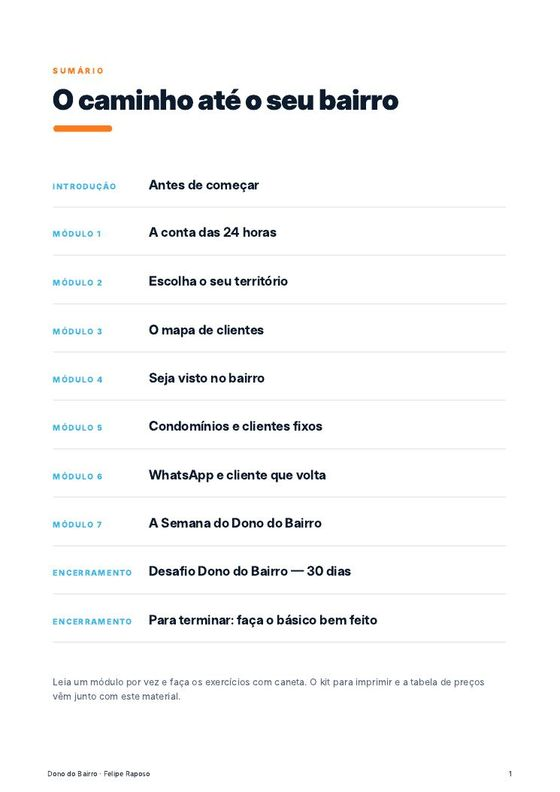
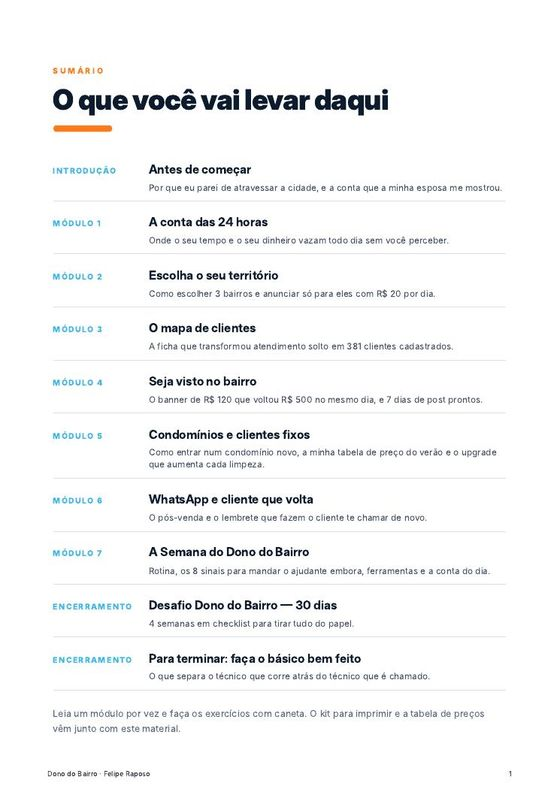
Página: sumário que vende e tabela de preço borrada
Claude-Session: https://claude.ai/code/session_01PUvGjWGqd3sYKr7P7Kcqs2

diff --git a/index.html b/index.html
@@ -264,17 +264,17 @@ document.addEventListener('click',function(e){var a=e.target.closest&&e.target.c
 
 <section id="conteudo">
   <div class="wrap stack">
-    <h2>7 módulos + Desafio de 30 dias. Do jeito que você usa na prática</h2>
-    <p class="muted">Cada módulo resolve um problema que você já viu na rua, com exercício para fazer na mesma semana.</p>
+    <h2>O que você vai levar daqui</h2>
+    <p class="muted">7 módulos + desafio de 30 dias. Cada um resolve um problema que você já viu na rua, com exercício para fazer na mesma semana.</p>
     <ol class="chs">
-      <li class="ch"><span class="n">01</span><div><b>A conta das 24 horas</b><span>Onde o seu tempo vaza e por que organização vira lucro.</span></div></li>
-      <li class="ch"><span class="n">02</span><div><b>Escolha o seu território</b><span>Como escolher 3 bairros e anunciar só para eles, com exemplo de R$ 20 por dia.</span></div></li>
-      <li class="ch"><span class="n">03</span><div><b>O mapa de clientes</b><span>A ficha de atendimento e o mapa de graça no celular.</span></div></li>
-      <li class="ch"><span class="n">04</span><div><b>Seja visto no bairro</b><span>Banner, uniforme, toalha preta e o calendário de 7 dias de postagem.</span></div></li>
-      <li class="ch"><span class="n">05</span><div><b>Condomínios e clientes fixos</b><span>Como entrar num condomínio novo, a minha tabela de preços de referência e o upgrade que aumenta o valor de cada limpeza.</span></div></li>
-      <li class="ch"><span class="n">06</span><div><b>WhatsApp e cliente que volta</b><span>Pós-venda de 1 mês, lembrete de 6 meses e mensagens prontas.</span></div></li>
-      <li class="ch"><span class="n">07</span><div><b>A semana do Dono do Bairro</b><span>Rotina, ferramentas, o que aprendi com 16 ajudantes, quando e como mandar embora, e quanto custa abrir a empresa todo dia.</span></div></li>
-      <li class="ch"><span class="n">30</span><div><b>Desafio Dono do Bairro em 30 dias</b><span>Quatro semanas em checklist para sair da leitura e colocar em prática.</span></div></li>
+      <li class="ch"><span class="n">01</span><div><b>A conta das 24 horas</b><span>Onde o seu tempo e o seu dinheiro vazam todo dia sem você perceber.</span></div></li>
+      <li class="ch"><span class="n">02</span><div><b>Escolha o seu território</b><span>Como escolher 3 bairros e anunciar só para eles com R$ 20 por dia.</span></div></li>
+      <li class="ch"><span class="n">03</span><div><b>O mapa de clientes</b><span>A ficha que transformou atendimento solto em 381 clientes cadastrados.</span></div></li>
+      <li class="ch"><span class="n">04</span><div><b>Seja visto no bairro</b><span>O banner de R$ 120 que voltou R$ 500 no mesmo dia, e 7 dias de post prontos.</span></div></li>
+      <li class="ch"><span class="n">05</span><div><b>Condomínios e clientes fixos</b><span>Como entrar num condomínio novo, a minha tabela de preço do verão e o upgrade que aumenta cada limpeza.</span></div></li>
+      <li class="ch"><span class="n">06</span><div><b>WhatsApp e cliente que volta</b><span>O pós-venda e o lembrete que fazem o cliente te chamar de novo.</span></div></li>
+      <li class="ch"><span class="n">07</span><div><b>A semana do Dono do Bairro</b><span>Rotina, os 8 sinais para mandar o ajudante embora, ferramentas e a conta do dia.</span></div></li>
+      <li class="ch"><span class="n">30</span><div><b>Desafio Dono do Bairro em 30 dias</b><span>4 semanas em checklist para tirar tudo do papel.</span></div></li>
     </ol>
     <div class="bonus">
       <div class="ic"><svg width="28" height="28" viewBox="0 0 24 24" fill="none" stroke="#ee6a33" stroke-width="2" stroke-linecap="round" stroke-linejoin="round" aria-hidden="true"><path d="M20 12v10H4V12"/><path d="M2 7h20v5H2z"/><path d="M12 22V7"/><path d="M12 7H7.5a2.5 2.5 0 0 1 0-5C11 2 12 7 12 7z"/><path d="M12 7h4.5a2.5 2.5 0 0 0 0-5C13 2 12 7 12 7z"/></svg></div>
@@ -288,7 +288,7 @@ document.addEventListener('click',function(e){var a=e.target.closest&&e.target.c
   <div class="wrap stack">
     <h2>Veja <span class="o">por dentro</span></h2>
     <p class="muted">Páginas reais do e-book e do kit para imprimir. Arraste para o lado.</p>
-    <div class="pvs"><figure class="pv"><img src="p-sumario.jpg" alt="Sumário: 7 módulos + desafio" width="560" height="792" loading="lazy"><figcaption>Sumário: 7 módulos + desafio</figcaption></figure><figure class="pv"><img src="p-exercicio.jpg" alt="Exercício prático de cada módulo" width="560" height="792" loading="lazy"><figcaption>Exercício prático de cada módulo</figcaption></figure><figure class="pv"><img src="p-tabela.jpg" alt="A minha tabela de preços real" width="560" height="792" loading="lazy"><figcaption>A minha tabela de preços real</figcaption></figure><figure class="pv"><img src="p-ficha.jpg" alt="Kit: ficha de atendimento" width="560" height="792" loading="lazy"><figcaption>Kit: ficha de atendimento</figcaption></figure><figure class="pv"><img src="p-desafio.jpg" alt="Kit: desafio de 30 dias" width="560" height="792" loading="lazy"><figcaption>Kit: desafio de 30 dias</figcaption></figure></div>
+    <div class="pvs"><figure class="pv"><img src="p-sumario.jpg" alt="Sumário do e-book" width="560" height="792" loading="lazy"><figcaption>O que você vai levar daqui</figcaption></figure><figure class="pv"><img src="p-exercicio.jpg" alt="Exercício prático de cada módulo" width="560" height="792" loading="lazy"><figcaption>Exercício prático de cada módulo</figcaption></figure><figure class="pv"><img src="p-tabela.jpg" alt="Tabela de preço do verão, os valores estão dentro do e-book" width="560" height="792" loading="lazy"><figcaption>A minha tabela do verão (só no e-book)</figcaption></figure><figure class="pv"><img src="p-ficha.jpg" alt="Kit: ficha de atendimento" width="560" height="792" loading="lazy"><figcaption>Kit: ficha de atendimento</figcaption></figure><figure class="pv"><img src="p-desafio.jpg" alt="Kit: desafio de 30 dias" width="560" height="792" loading="lazy"><figcaption>Kit: desafio de 30 dias</figcaption></figure></div>
   </div>
 </section>
 
